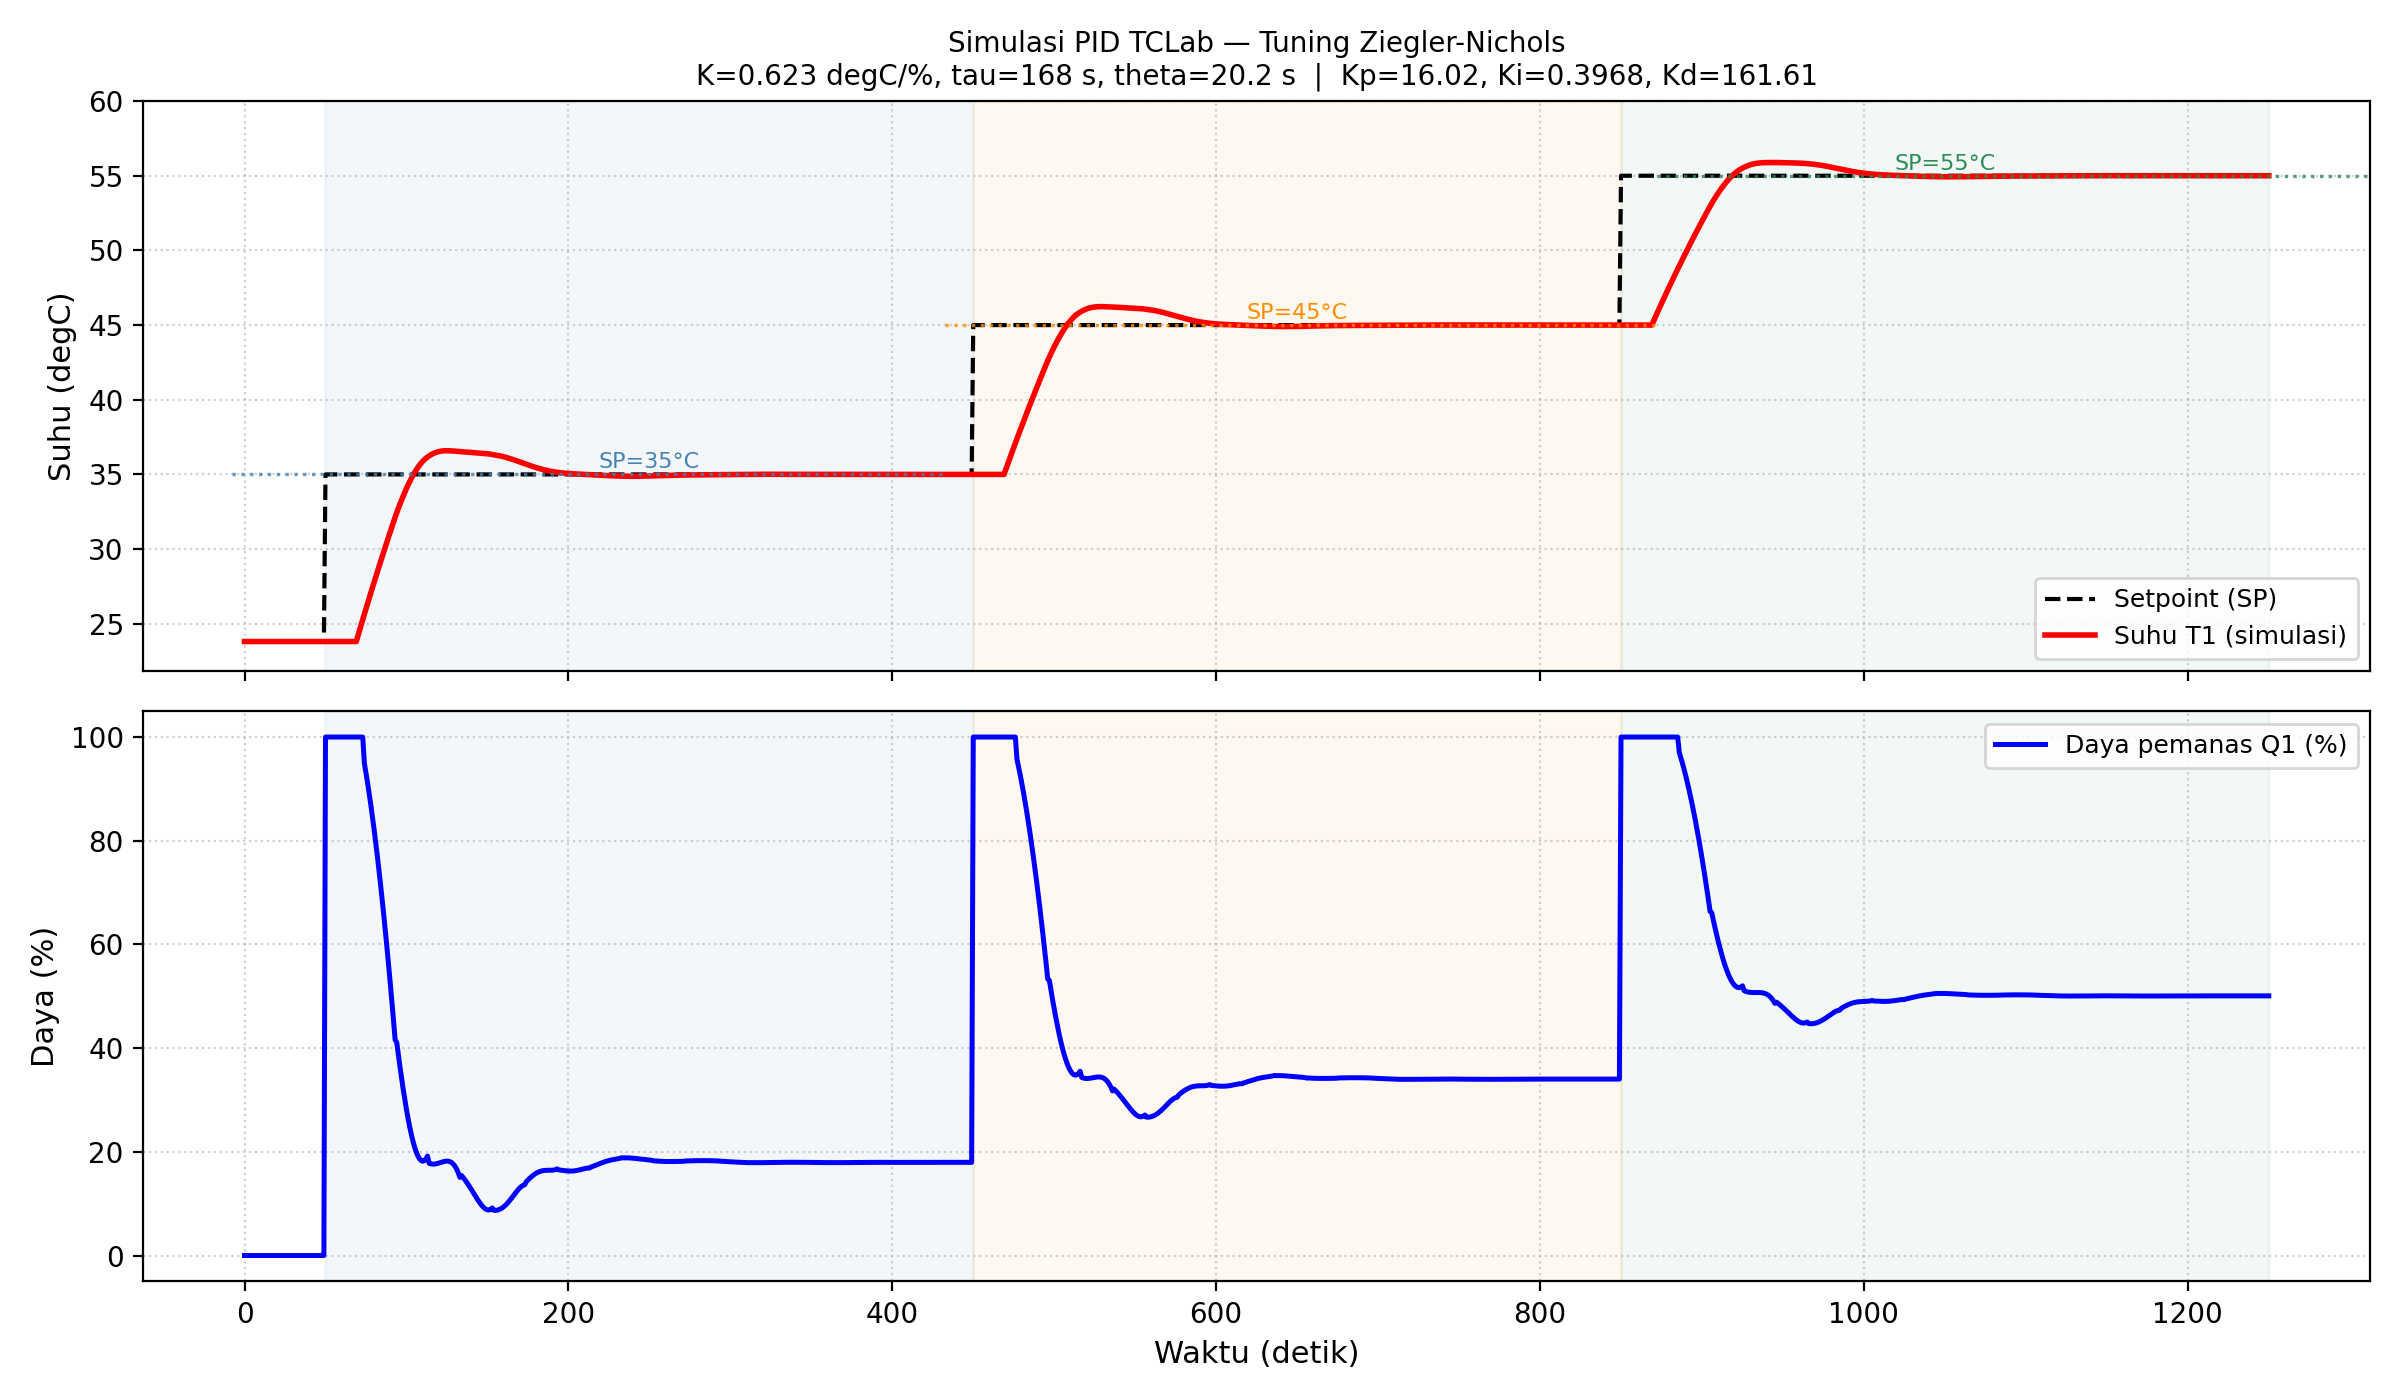
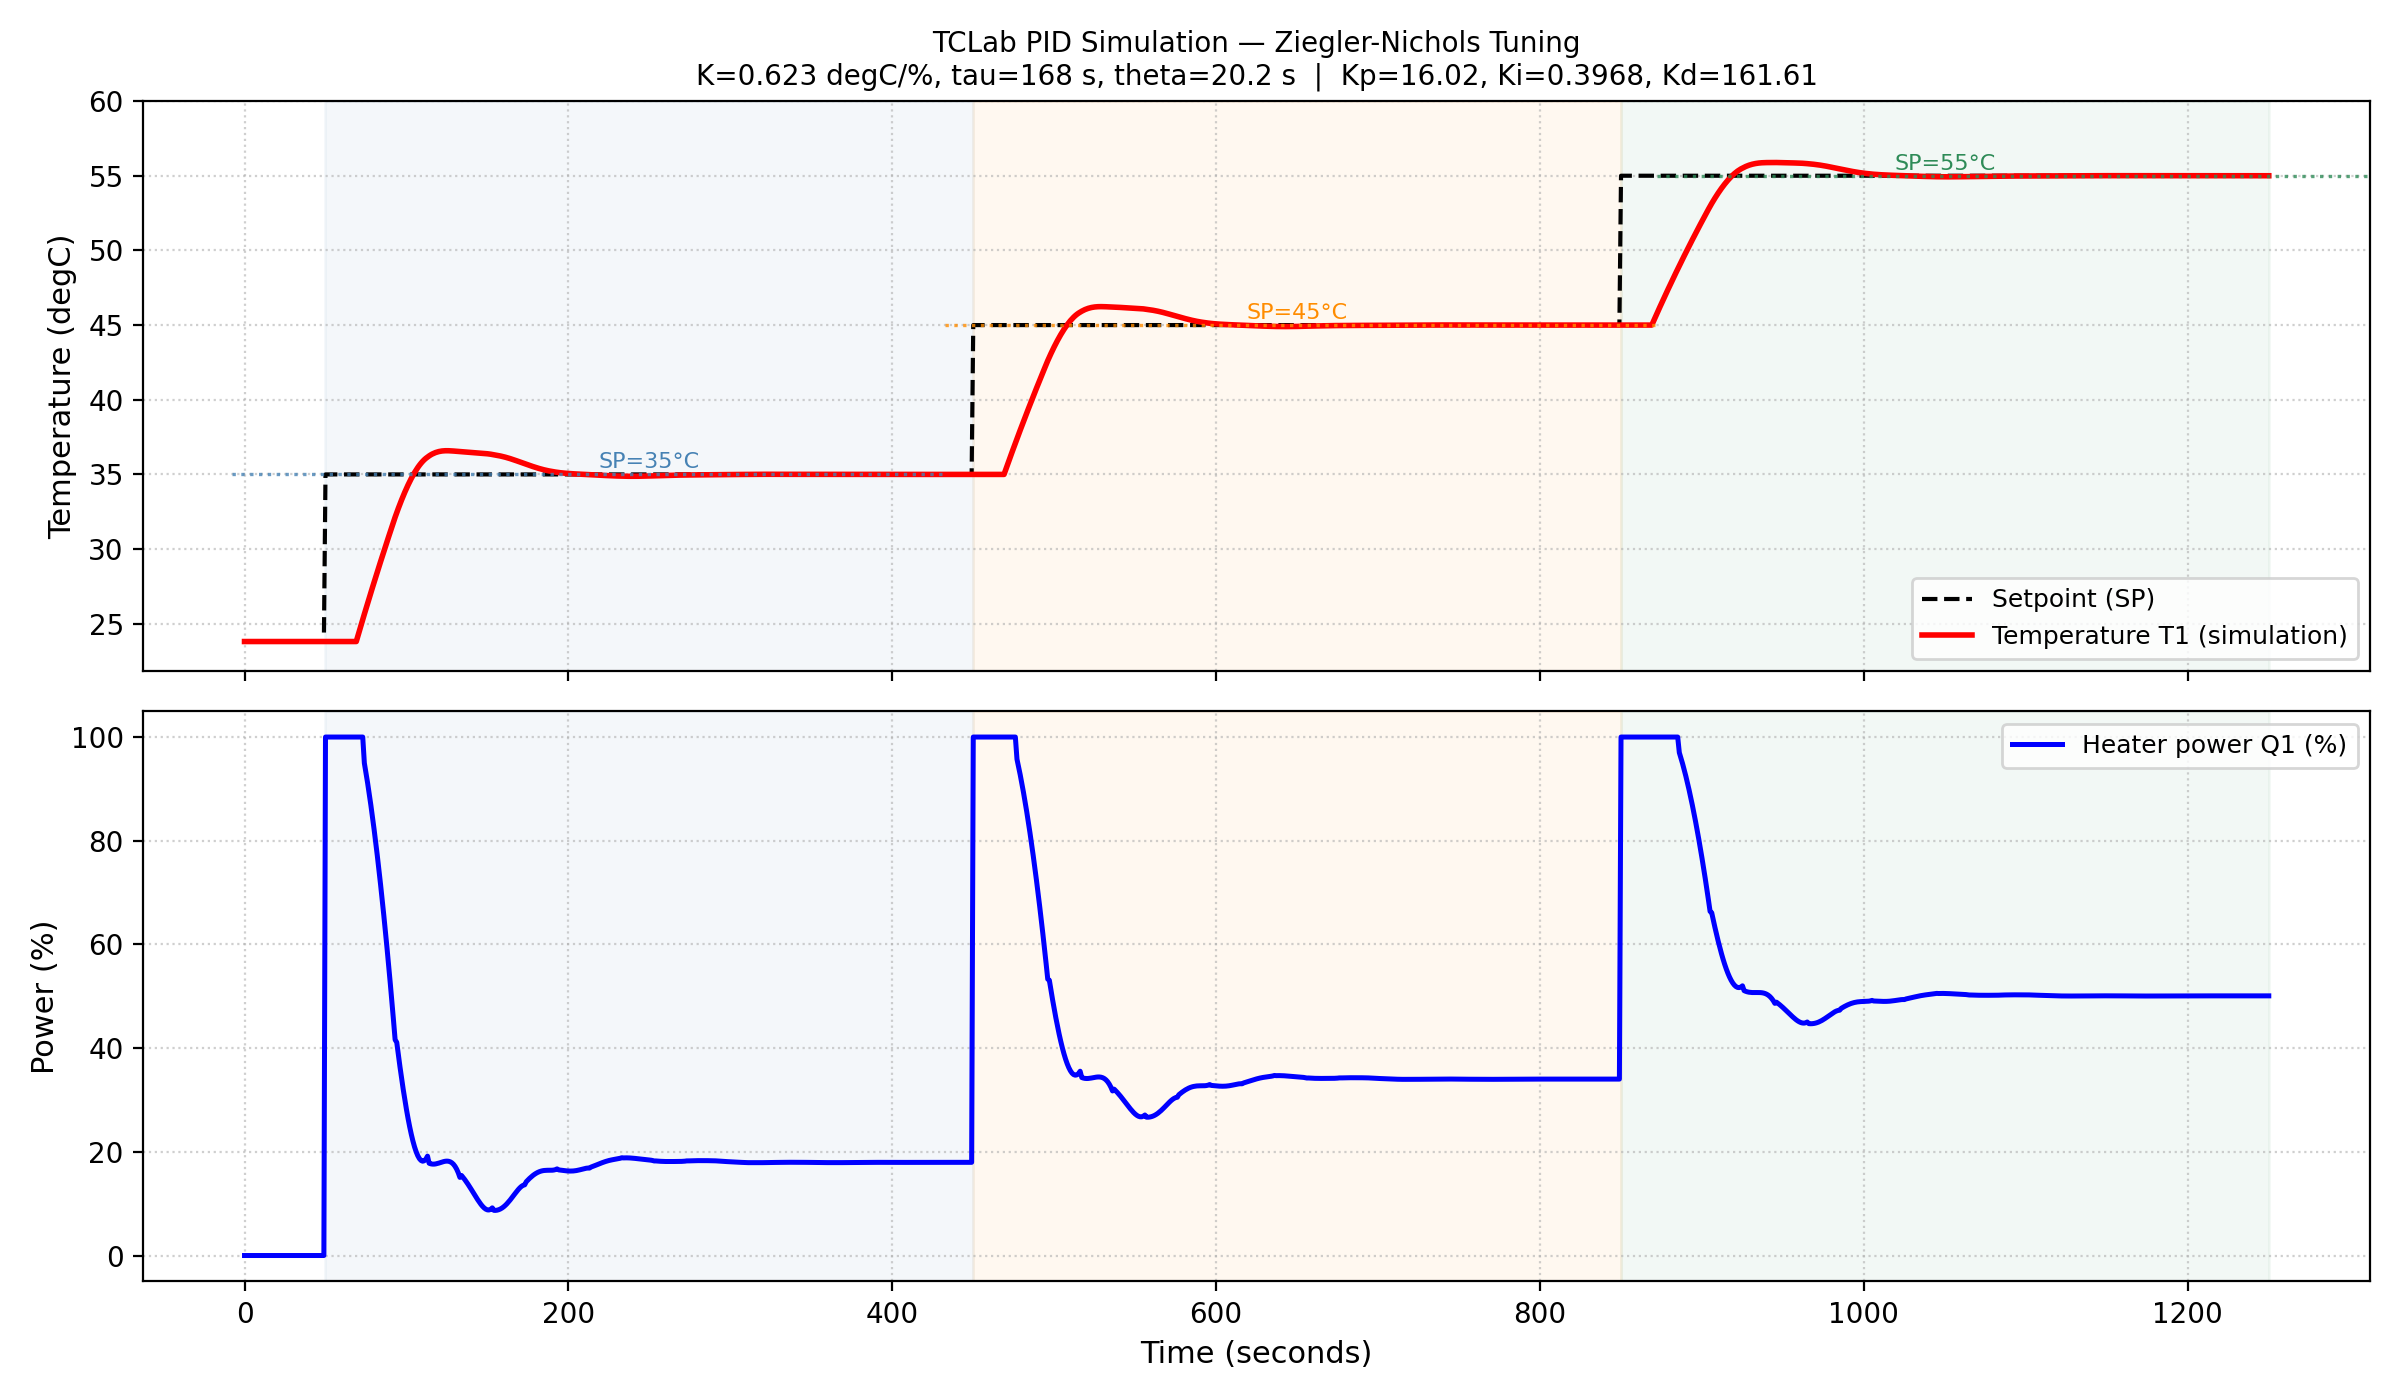
docs: update README documentation and add Ziegler-Nichols simulation result plot

diff --git a/README.md b/README.md
@@ -1,124 +1,149 @@
 # TCLab PID Temperature Control Simulation (Ziegler-Nichols)
 
-Proyek simulasi kendali suhu closed-loop pada modul **Temperature Control Lab (TCLab)** berbasis Arduino. 
-Model matematis diidentifikasi menggunakan model orde satu dengan waktu tunda (**FOPDT: First Order Plus Dead Time**) langsung dari dataset eksperimen publik. Parameter kontroler PID dihitung secara analitik menggunakan metode **Ziegler-Nichols Open-Loop (Reaction Curve)** dilengkapi mekanisme **Anti-Windup Clamping**.
+## Brief
 
-![Sistem Overview](definisi-skematic.png)
+This project simulates a closed-loop PID temperature controller on the **Temperature Control Lab (TCLab)** Arduino-based module. Instead of tuning by hand or guessing parameters, the plant model was identified directly from real open-loop step-response data published by J. C. Kantor (University of Notre Dame). A **First-Order Plus Dead Time (FOPDT)** model was fitted to the dataset using least-squares optimization, and PID gains were then computed analytically using the **Ziegler-Nichols open-loop (reaction curve)** method. The controller includes **anti-windup clamping** to handle actuator saturation gracefully across multiple setpoint changes.
 
----
+![System Overview](definisi-skematic.png)
 
-## Struktur Direktori
-
-Struktur proyek dibuat minimalis, modular, dan terisolasi:
+## Project Structure
 
 ```
 tclab-pid-simulation/
-├── README.md               # Dokumentasi lengkap proyek
-├── requirements.txt        # Dependensi Python
+├── README.md               # Full project documentation
+├── requirements.txt        # Python dependencies
 ├── data/
 │   └── raw/
-│       └── tclab-data.csv  # Dataset uji step response TCLab (800 s, Q1=50%)
+│       └── tclab-data.csv  # Open-loop step response dataset (800 s, Q1=50%)
 ├── src/
-│   ├── model.py            # Identifikasi parameter FOPDT (K, tau, theta, T_amb)
-│   ├── tuning.py           # Perhitungan gain Ziegler-Nichols open-loop
-│   └── pid.py              # Kontroler PID diskrit + anti-windup clamping
-├── run_zn.py               # Script utama satu perintah untuk eksekusi pipeline
+│   ├── model.py            # FOPDT parameter identification (K, tau, theta, T_amb)
+│   ├── tuning.py           # Ziegler-Nichols open-loop gain calculation
+│   └── pid.py              # Discrete PID controller with anti-windup clamping
+├── run_zn.py               # Single-command pipeline script
 └── results/
-    └── zn_result.png       # Grafik hasil simulasi suhu dan daya pemanas
+    └── zn_result.png       # Simulation output plot (temperature + heater power)
 ```
 
----
+## How to Run
 
-## Panduan Penggunaan
-
-Cukup jalankan dua perintah berikut:
+Just two commands:
 
 ```bash
-# 1. Install dependensi
+# 1. Install dependencies
 pip install -r requirements.txt
 
-# 2. Jalankan simulasi penuh
+# 2. Run the full simulation
 python run_zn.py
 ```
 
-Skrip `run_zn.py` secara otomatis menjalankan seluruh tahapan:
-1. Membaca `data/raw/tclab-data.csv` dan fitting kurva least-squares FOPDT.
-2. Menghitung gain PID $K_p, K_i, K_d$ berdasarkan aturan tuning Ziegler-Nichols.
-3. Mensimulasikan sistem closed-loop dengan 3 setpoint bertahap (masing-masing 400 detik).
-4. Menghitung metrik performa (*Rise Time*, *Settling Time*, *Overshoot*, *SSE*).
-5. Menyimpan grafik visualisasi ke `results/zn_result.png`.
+`run_zn.py` handles the entire pipeline automatically:
+1. Reads `data/raw/tclab-data.csv` and fits the FOPDT model via least-squares.
+2. Computes PID gains $K_p, K_i, K_d$ using Ziegler-Nichols tuning rules.
+3. Simulates the closed-loop system across 3 sequential setpoints (400 seconds each).
+4. Calculates performance metrics (Rise Time, Settling Time, Overshoot, SSE).
+5. Saves the result plot to `results/zn_result.png`.
 
----
+## 1. System Identification (FOPDT)
 
-## 1. Identifikasi Sistem (FOPDT)
+The reference dataset comes from a real open-loop step-response experiment (heater power fixed at $Q_1 = 50\%$ for 800 seconds):
 
-Dataset referensi diperoleh dari eksperimen nyata open-loop step response (daya pemanas $Q_1 = 50\%$ konstan selama 800 detik):
-- **Sumber**: [J. C. Kantor, University of Notre Dame](https://jckantor.github.io/CBE32338/data/tclab-data.csv)
+**Source:** [J. C. Kantor, University of Notre Dame](https://jckantor.github.io/CBE32338/data/tclab-data.csv)
 
-### Model Matematis
-Model transfer function pendekatan FOPDT:
+### Mathematical Model
+
+FOPDT transfer function approximation:
 $$G(s) = \frac{K}{\tau s + 1} e^{-\theta s}$$
 
-Bentuk domain waktu terhadap step input $Q$:
-$$T(t) = T_{\text{amb}} + K \cdot Q \cdot \left(1 - e^{-(t - \theta)/\tau}\right) \quad \text{untuk } t \ge \theta$$
+Time-domain response to a step input $Q$:
+$$T(t) = T_{\text{amb}} + K \cdot Q \cdot \left(1 - e^{-(t - \theta)/\tau}\right) \quad \text{for } t \ge \theta$$
 
-### Hasil Estimasi Parameter:
-| Parameter | Nilai Hasil Fit | Satuan | Deskripsi Fisik |
-|---|---|---|---|
-| **K** | **0.6228** | °C/% | *Process Gain* (kenaikan suhu per 1% daya pemanas) |
-| **τ** | **167.8** | detik | *Time Constant* (kecepatan respon termal mencapai 63.2%) |
-| **θ** | **20.2** | detik | *Dead Time / Transport Delay* (jeda konduksi panas ke sensor) |
-| **$T_{\text{amb}}$** | **23.81** | °C | Suhu lingkungan awal saat pengujian |
-| **RMSE** | **0.222** | °C | Standar deviasi galat fitting terhadap data riil |
+### Fitted Parameter Results
 
-> **Catatan Analisis**: Dead time $\theta = 20.2\text{ s}$ merepresentasikan jarak fisik antara transistor pemanas (TIP31C) dan sensor suhu (TMP36). Keberadaan dead time ini menjadi faktor kritis pembatas kestabilan sistem termal.
+| Parameter | Fitted Value | Unit | Physical Meaning |
+|-----------|-------------|------|-----------------|
+| **K** | **0.6228** | °C/% | Process gain (temperature rise per 1% heater power) |
+| **τ** | **167.8** | s | Time constant (speed of thermal response to reach 63.2%) |
+| **θ** | **20.2** | s | Dead time / transport delay (heat conduction lag to sensor) |
+| **$T_{\text{amb}}$** | **23.81** | °C | Ambient temperature at the time of the experiment |
+| **RMSE** | **0.222** | °C | Fit error standard deviation against real data |
 
----
+> The dead time $\theta = 20.2\text{ s}$ reflects the physical distance between the TIP31C heater transistor and the TMP36 temperature sensor. This is the main stability-limiting factor for this thermal plant — increasing it even modestly causes the system to oscillate under the same gains.
 
-## 2. Perancangan Kontroler (Ziegler-Nichols Tuning)
+## 2. Controller Design (Ziegler-Nichols Tuning)
 
-Metode tuning kurva reaksi terbuka (Ziegler & Nichols, 1942) untuk kontroler PID tipe ideal/paralel:
+Open-loop reaction curve method (Ziegler & Nichols, 1942) for an ideal/parallel PID structure:
 
-| Parameter Gain | Rumus Ziegler-Nichols | Nilai Terhitung |
-|---|---|---|
+| Gain Parameter | Ziegler-Nichols Formula | Computed Value |
+|---------------|------------------------|---------------|
 | **$K_p$** | $\frac{1.2 \cdot \tau}{K \cdot \theta} = \frac{1.2 \cdot 167.8}{0.6228 \cdot 20.2}$ | **16.02** |
-| **$T_i$** (Waktu Integral) | $2.0 \cdot \theta = 2.0 \cdot 20.2$ | **40.4 detik** |
-| **$T_d$** (Waktu Derivatif) | $0.5 \cdot \theta = 0.5 \cdot 20.2$ | **10.1 detik** |
+| **$T_i$** (Integral time) | $2.0 \cdot \theta = 2.0 \cdot 20.2$ | **40.4 s** |
+| **$T_d$** (Derivative time) | $0.5 \cdot \theta = 0.5 \cdot 20.2$ | **10.1 s** |
 | **$K_i$** | $\frac{K_p}{T_i} = \frac{16.02}{40.4}$ | **0.397** |
 | **$K_d$** | $K_p \cdot T_d = 16.02 \cdot 10.1$ | **161.61** |
 
-### Algoritma PID & Anti-Windup Clamping
-Persamaan beda diskrit pada modul `src/pid.py`:
+### PID Algorithm and Anti-Windup Clamping
+
+Discrete difference equation implemented in `src/pid.py`:
 $$u[k] = K_p \cdot e[k] + K_i \sum e[j] \Delta t + K_d \frac{e[k] - e[k-1]}{\Delta t}$$
-- **Saturasi Aktuator**: Daya pemanas dibatasi pada rentang fisik $0 \le u \le 100\%$.
-- **Anti-Windup Clamping**: Akumulasi suku integral dibekukan (*freezed*) apabila sinyal kontrol mencapai batas saturasi dan arah error memperparah kondisi jenuh, mencegah lonjakan *recovery time* saat pergantian setpoint.
 
----
+- **Actuator saturation:** Heater power is physically constrained to $0 \le u \le 100\%$.
+- **Anti-windup clamping:** Integral accumulation is frozen whenever the control signal hits saturation and the error continues pushing in the same direction. This prevents sluggish windup recovery during setpoint transitions.
 
-## 3. Hasil Simulasi & Evaluasi Kinerja
+## 3. Simulation Results
 
-Skenario pengujian mengevaluasi respon pelacakan suhu pada **tiga setpoint** berurutan: **35°C**, **45°C**, dan **55°C** (masing-masing ditahan selama **400 detik**). Rentang ini dipilih karena berada dalam kapasitas fisik pemanas tanpa ekstrapolasi berlebih (pada daya 50%, suhu jenuh modul adalah ~55°C).
+The test scenario evaluates temperature tracking across **three sequential setpoints**: **35°C**, **45°C**, and **55°C** (each held for **400 seconds**). This range stays within the physical capacity of the heater without excessive extrapolation — at 50% power the module saturates around 55°C.
 
-### Tabel Metrik Kinerja:
-| Setpoint | Rentang Waktu | Rise Time (10%–90%) | Settling Time (kriteria 2%) | Overshoot | Steady-State Error ($e_{ss}$) |
-|---|---|---|---|---|---|
-| **35 °C** | $t = 50 - 450\text{ s}$ | **27 detik** | **138 detik** | **14.18%** | $+0.001\text{ °C}$ |
-| **45 °C** | $t = 450 - 850\text{ s}$ | **30 detik** | **140 detik** | **12.35%** | $+0.000\text{ °C}$ |
-| **55 °C** | $t = 850 - 1250\text{ s}$ | **38 detik** | **147 detik** | **8.86%** | $+0.000\text{ °C}$ |
+### Terminal Output (`python run_zn.py`)
 
-### Analisis Respon:
-1. **Karakteristik Ziegler-Nichols**: Metode ZN dikenal menghasilkan respons yang agresif. Overshoot sebesar ~8%–14% masih berada di bawah target desain teoritis ZN (~25%), menunjukkan redaman sistem termal yang baik.
-2. **Eliminasi Error Steady-State**: Aksi integral ($K_i$) berhasil meniadakan error tunak di seluruh rentang setpoint ($e_{ss} \approx 0.00\text{ °C}$).
-3. **Efisiensi Transisi**: Penerapan *anti-windup clamping* membuat waktu settling stabil di kisaran ~140 detik pada tiap kenaikan suhu 10°C tanpa terjadi fenomena *sluggish windup recovery*.
+```
+============================================================
+1. FOPDT MODEL IDENTIFICATION
+   K     = 0.6228 degC/%  (static gain)
+   tau   = 167.8 s       (time constant)
+   theta = 20.2 s      (dead time)
+   T_amb = 23.81 degC   (ambient temperature)
+   RMSE  = 0.222 degC   (fit accuracy)
+============================================================
 
----
+2. ZIEGLER-NICHOLS TUNING
+   Kp = 16.0159
+   Ki = 0.39680  (Ti = 40.4 s)
+   Kd = 161.610  (Td = 10.1 s)
+   Formula: Kp = 1.2*tau/(K*theta), Ti = 2*theta, Td = 0.5*theta
+============================================================
 
-## 4. Visualisasi Grafik & Perangkat Keras
+3. SIMULATION RESULTS
+        Setpoint   Rise time    Settling   Overshoot       SSE
+   SP=  35 degC        27 s       138 s     14.18%   +0.001
+   SP=  45 degC        30 s       140 s     12.35%   +0.000
+   SP=  55 degC        38 s       147 s      8.86%   +0.000
+============================================================
 
-### Hasil Simulasi Pelacakan Suhu (PID Ziegler-Nichols)
-![Grafik Respon ZN](results/zn_result.png)
+Plot saved: ...\results\zn_result.png
+Done.
+```
 
-### Modul Fisik dan Rangkaian Alat
-| Skema Wiring & Rangkaian | Foto Modul TCLab |
-|---|---|
-| ![Rangkaian](rangkaian.png) | ![Modul TCLab](alatnya.png) |
+### Performance Metrics
+
+| Setpoint | Time Window | Rise Time (10–90%) | Settling Time (2%) | Overshoot | Steady-State Error |
+|----------|-------------|-------------------|--------------------|-----------|-------------------|
+| **35 °C** | $t = 50 - 450\text{ s}$ | **27 s** | **138 s** | **14.18%** | $+0.001\text{ °C}$ |
+| **45 °C** | $t = 450 - 850\text{ s}$ | **30 s** | **140 s** | **12.35%** | $+0.000\text{ °C}$ |
+| **55 °C** | $t = 850 - 1250\text{ s}$ | **38 s** | **147 s** | **8.86%** | $+0.000\text{ °C}$ |
+
+### Response Analysis
+
+1. **Ziegler-Nichols characteristics:** ZN tuning is intentionally aggressive. The observed overshoot of 8–14% is actually below the theoretical ZN design target (~25%), which suggests the thermal system's natural damping is working in our favor.
+2. **Steady-state error elimination:** The integral term drives the steady-state error to essentially zero ($e_{ss} \approx 0.00\text{ °C}$) at all three setpoints.
+3. **Setpoint transition efficiency:** Anti-windup clamping keeps settling time stable around ~140 s per 10°C step without the sluggish windup recovery typical of unprotected integrators.
+
+## 4. Plots and Hardware
+
+### Simulation Result — ZN Step Response
+![ZN Simulation Result](results/zn_result.png)
+
+### Hardware and Wiring
+| Wiring Schematic | TCLab Module |
+|-----------------|-------------|
+| ![Schematic](rangkaian.png) | ![TCLab Module](alatnya.png) |
+
